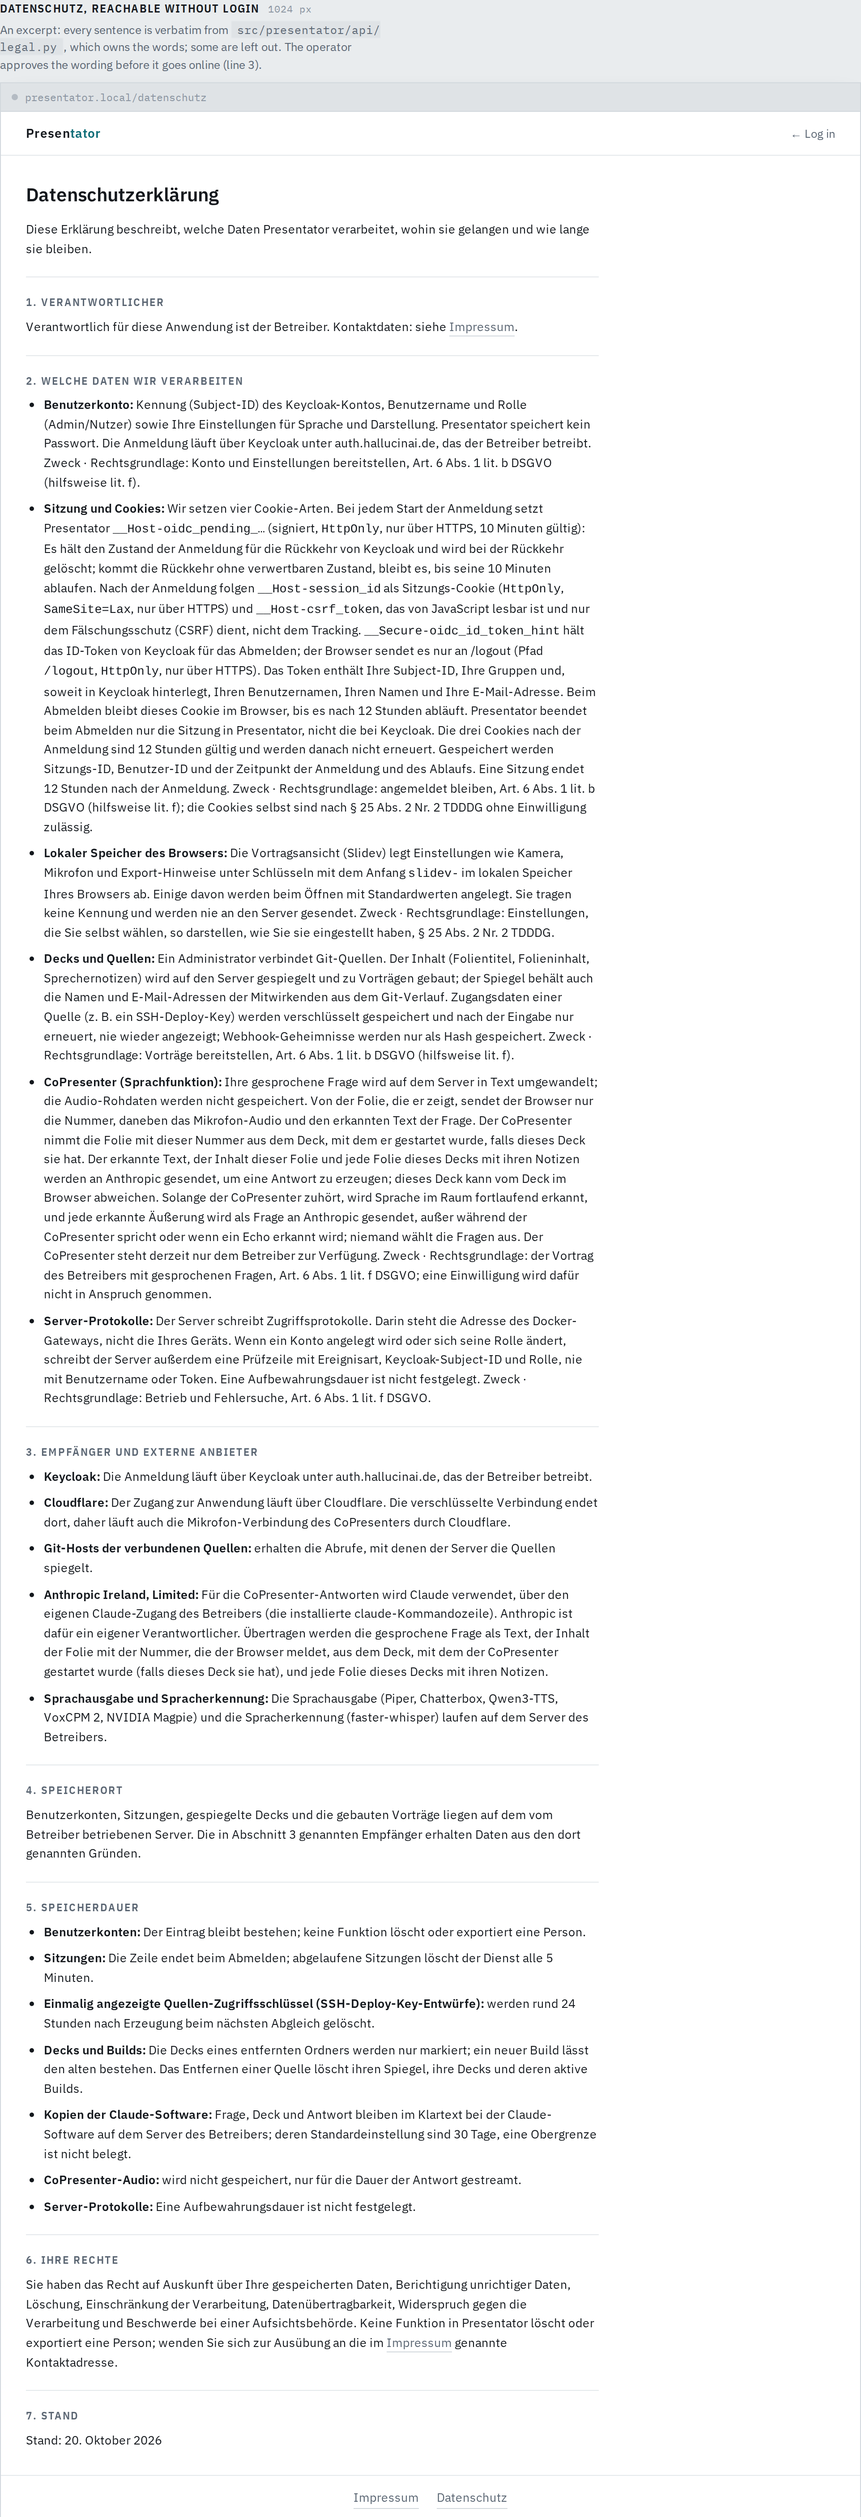
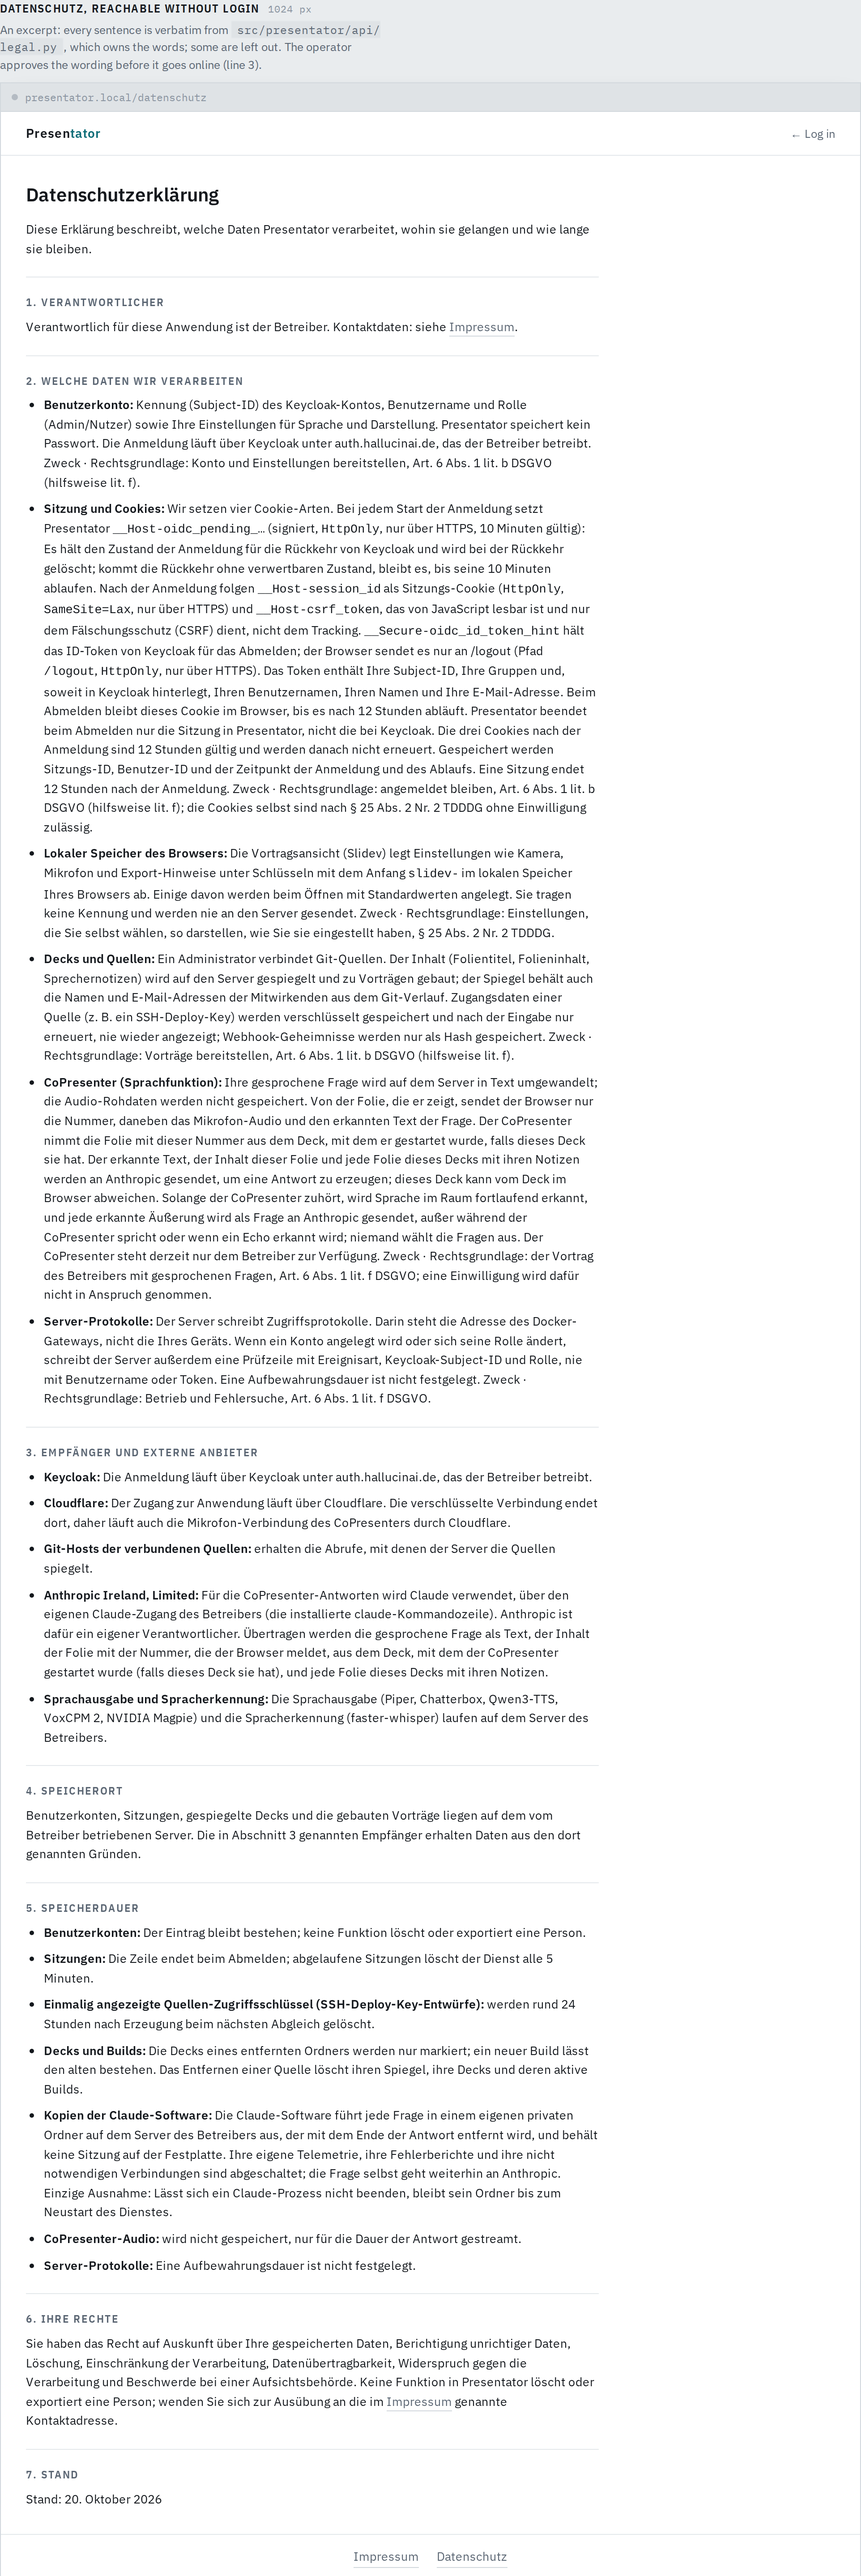
The co-presenter pins agent-providers v0.5.0 and the Datenschutz stops claiming a 30-day Claude copy
v0.5.0 gives every Claude child the telemetry switches and
--no-session-persistence, and #115 gives each turn a private home that is
removed at the end. The Datenschutz point "Kopien der Claude-Software" still
said the CLI keeps question, deck and answer for 30 days, which is now false.
It now says what is kept; the question itself still goes to Anthropic. The
child test checks the three switches and the argv flag. Serves #339 (#293
findings 5 and 26).

Changed region(s): [[0.0, 0.0, 0.6861, 0.9643]]

diff --git a/docs/mockups/m0-lobby.html b/docs/mockups/m0-lobby.html
@@ -4326,7 +4326,7 @@ Cannot resolve import "./folien/03-fabric.md" from slides.md
                   <li><b>Sitzungen:</b> Die Zeile endet beim Abmelden; abgelaufene Sitzungen löscht der Dienst alle 5 Minuten.</li>
                   <li><b>Einmalig angezeigte Quellen-Zugriffsschlüssel (SSH-Deploy-Key-Entwürfe):</b> werden rund 24 Stunden nach Erzeugung beim nächsten Abgleich gelöscht.</li>
                   <li><b>Decks und Builds:</b> Die Decks eines entfernten Ordners werden nur markiert; ein neuer Build lässt den alten bestehen. Das Entfernen einer Quelle löscht ihren Spiegel, ihre Decks und deren aktive Builds.</li>
-                  <li><b>Kopien der Claude-Software:</b> Frage, Deck und Antwort bleiben im Klartext bei der Claude-Software auf dem Server des Betreibers; deren Standardeinstellung sind 30 Tage, eine Obergrenze ist nicht belegt.</li>
+                  <li><b>Kopien der Claude-Software:</b> Die Claude-Software führt jede Frage in einem eigenen privaten Ordner auf dem Server des Betreibers aus, der mit dem Ende der Antwort entfernt wird, und behält keine Sitzung auf der Festplatte. Ihre eigene Telemetrie, ihre Fehlerberichte und ihre nicht notwendigen Verbindungen sind abgeschaltet; die Frage selbst geht weiterhin an Anthropic. Einzige Ausnahme: Lässt sich ein Claude-Prozess nicht beenden, bleibt sein Ordner bis zum Neustart des Dienstes.</li>
                   <li><b>CoPresenter-Audio:</b> wird nicht gespeichert, nur für die Dauer der Antwort gestreamt.</li>
                   <li><b>Server-Protokolle:</b> Eine Aufbewahrungsdauer ist nicht festgelegt.</li>
                 </ul>
@@ -4404,7 +4404,7 @@ Cannot resolve import "./folien/03-fabric.md" from slides.md
                   <li><b>Sitzungen:</b> Die Zeile endet beim Abmelden; abgelaufene Sitzungen löscht der Dienst alle 5 Minuten.</li>
                   <li><b>Einmalig angezeigte Quellen-Zugriffsschlüssel (SSH-Deploy-Key-Entwürfe):</b> werden rund 24 Stunden nach Erzeugung beim nächsten Abgleich gelöscht.</li>
                   <li><b>Decks und Builds:</b> Die Decks eines entfernten Ordners werden nur markiert; ein neuer Build lässt den alten bestehen. Das Entfernen einer Quelle löscht ihren Spiegel, ihre Decks und deren aktive Builds.</li>
-                  <li><b>Kopien der Claude-Software:</b> Frage, Deck und Antwort bleiben im Klartext bei der Claude-Software auf dem Server des Betreibers; deren Standardeinstellung sind 30 Tage, eine Obergrenze ist nicht belegt.</li>
+                  <li><b>Kopien der Claude-Software:</b> Die Claude-Software führt jede Frage in einem eigenen privaten Ordner auf dem Server des Betreibers aus, der mit dem Ende der Antwort entfernt wird, und behält keine Sitzung auf der Festplatte. Ihre eigene Telemetrie, ihre Fehlerberichte und ihre nicht notwendigen Verbindungen sind abgeschaltet; die Frage selbst geht weiterhin an Anthropic. Einzige Ausnahme: Lässt sich ein Claude-Prozess nicht beenden, bleibt sein Ordner bis zum Neustart des Dienstes.</li>
                   <li><b>CoPresenter-Audio:</b> wird nicht gespeichert, nur für die Dauer der Antwort gestreamt.</li>
                   <li><b>Server-Protokolle:</b> Eine Aufbewahrungsdauer ist nicht festgelegt.</li>
                 </ul>

diff --git a/copresenter/tests/test_answer_child.py b/copresenter/tests/test_answer_child.py
@@ -45,6 +45,13 @@ report = {{
     "foreign_secret_present": "{foreign_secret}" in environment,
     "home": home,
     "credentials_file_present": (Path(home) / ".claude" / ".credentials.json").exists(),
+    "switches_present": [
+        name
+        for name in ("DISABLE_TELEMETRY", "DISABLE_AUTOUPDATER",
+                     "CLAUDE_CODE_DISABLE_NONESSENTIAL_TRAFFIC")
+        if name in environment
+    ],
+    "keeps_no_session": "--no-session-persistence" in sys.argv[1:],
 }}
 print(json.dumps({{"type": "system", "subtype": "init", "tools": [], "slash_commands": [],
                   "mcp_servers": [], "apiKeySource": "none"}}), flush=True)
@@ -172,6 +179,17 @@ def test_child_home_lies_below_the_working_root_and_holds_no_credentials_file(
 
     assert Path(str(report["home"])).is_relative_to(claude.working_root)
     assert report["credentials_file_present"] is False
+
+
+def test_child_runs_with_telemetry_switched_off_and_keeps_no_session(claude: Claude) -> None:
+    report = claude.reported()
+
+    assert report["switches_present"] == [
+        "DISABLE_TELEMETRY",
+        "DISABLE_AUTOUPDATER",
+        "CLAUDE_CODE_DISABLE_NONESSENTIAL_TRAFFIC",
+    ]
+    assert report["keeps_no_session"] is True
 
 
 def test_a_normal_turn_leaves_no_home_in_the_working_root(claude: Claude) -> None:

diff --git a/src/presentator/api/legal.py b/src/presentator/api/legal.py
@@ -285,10 +285,15 @@ DATENSCHUTZ: Final = LegalDocument(
                 ),
                 _point(
                     "Kopien der Claude-Software:",
-                    "Frage, Deck und Antwort bleiben im Klartext bei der "
-                    "Claude-Software auf dem Server des Betreibers; deren "
-                    "Standardeinstellung sind 30 Tage, eine Obergrenze ist "
-                    "nicht belegt.",
+                    "Die Claude-Software führt jede Frage in einem eigenen "
+                    "privaten Ordner auf dem Server des Betreibers aus, der "
+                    "mit dem Ende der Antwort entfernt wird, und behält keine "
+                    "Sitzung auf der Festplatte. Ihre eigene Telemetrie, ihre "
+                    "Fehlerberichte und ihre nicht notwendigen Verbindungen "
+                    "sind abgeschaltet; die Frage selbst geht weiterhin an "
+                    "Anthropic. Einzige Ausnahme: Lässt sich ein "
+                    "Claude-Prozess nicht beenden, bleibt sein Ordner bis zum "
+                    "Neustart des Dienstes.",
                 ),
                 _point(
                     "CoPresenter-Audio:",

diff --git a/tests/api/test_auth.py b/tests/api/test_auth.py
@@ -605,6 +605,16 @@ def test_the_datenschutz_discloses_the_cookie_kinds_the_token_and_the_hint_at_lo
     )
 
 
+def test_the_datenschutz_says_the_claude_software_keeps_no_session_and_no_old_copy(
+    lobby: Lobby,
+) -> None:
+    page = lobby.client.get("/datenschutz").text
+
+    assert "keine Sitzung auf der Festplatte" in page
+    assert "die Frage selbst geht weiterhin an Anthropic" in page
+    assert "30 Tage" not in page
+
+
 @pytest.mark.parametrize("stored_client_detail", ["IP-Adresse", "User-Agent"])
 def test_the_datenschutz_names_no_ip_address_and_no_user_agent_as_stored(
     lobby: Lobby,
